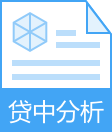
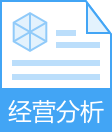
替换banner的图标,去掉navbar上的图标

Changed region(s): [[0.0536, 0.7576, 0.5089, 0.9394]]

diff --git a/src/components/companyHome/Banner/CompanyInfo/index.js b/src/components/companyHome/Banner/CompanyInfo/index.js
@@ -1,5 +1,5 @@
-import React, { PropTypes } from 'react';
-import { observer, inject } from 'mobx-react';
+import React, {PropTypes} from 'react';
+import {observer, inject} from 'mobx-react';
 import styles from './index.less';
 import HistoryName from './HistoryName';
 import RiskLabel from './RiskLabel';
@@ -7,13 +7,14 @@ import MultiPartyMonitoring from './MultiPartyMonitoring';
 import Industry from './Industry';
 import Contact from './Contact';
 import reportIcon from 'imgs/bannerInfo/report.png';
+import baseReportIcon from 'imgs/bannerInfo/baseReport.png';
 import loanIcon from 'imgs/bannerInfo/loan.png';
 import monitorIcon from 'imgs/bannerInfo/monitor.png';
 import nowRecordIcon from 'imgs/bannerInfo/nowRecord.png';
 
-function CompanyInfo({ bannerStore, routing}) {
+function CompanyInfo({bannerStore, routing, companyHomeStore}) {
   const bannerInfoData = bannerStore.bannerInfoData;
-  const createIcon = ()=> {
+  const createIcon = () => {
     const route = routing.location.pathname.split('/')[2];
     if (/comprehenEval|profitEval|operationEval|growthAbilityEval/.test(route)) {
       return loanIcon;
@@ -21,6 +22,8 @@ function CompanyInfo({ bannerStore, routing}) {
       return monitorIcon;
     } else if (route === 'nowRecord') {
       return nowRecordIcon;
+    } else if (companyHomeStore.reportInfo.basicReportId && !companyHomeStore.reportInfo.reportId) {
+      return baseReportIcon;
     }
     return reportIcon;
   };
@@ -32,11 +35,11 @@ function CompanyInfo({ bannerStore, routing}) {
       <div className={styles.baseInfoBox}>
         <div className="clearfix">
           <p className={styles.companyName}>{bannerInfoData.name}</p>
-           <RiskLabel riskInfo={bannerInfoData.bannerInfo.bannerInfo.riskInfo} />
-           <MultiPartyMonitoring monitorInfo={bannerInfoData.variousMonitored} />
+          <RiskLabel riskInfo={bannerInfoData.bannerInfo.bannerInfo.riskInfo}/>
+          <MultiPartyMonitoring monitorInfo={bannerInfoData.variousMonitored}/>
         </div>
         <div className={`clearfix ${styles.baseInfo}`}>
-          <Industry industryNames={industryType} />
+          <Industry industryNames={industryType}/>
           <Contact {...bannerStore} />
           <HistoryName {...bannerStore} />
         </div>
@@ -48,4 +51,4 @@ function CompanyInfo({ bannerStore, routing}) {
 CompanyInfo.propTypes = {
   bannerStore: PropTypes.object,
 };
-export default inject('bannerStore', 'routing')(observer(CompanyInfo));
+export default inject('bannerStore', 'routing', 'companyHomeStore')(observer(CompanyInfo));

diff --git a/src/components/NavBar/Menu/index.js b/src/components/NavBar/Menu/index.js
@@ -3,10 +3,6 @@ import {observer} from 'mobx-react';
 import {browserHistory} from 'react-router';
 import styles from './index.less';
 
-import imgLoanBefore from 'imgs/navbar/loanBefore.png';
-import imgLoaning from 'imgs/navbar/loaning.png';
-import imgLoanAfter from 'imgs/navbar/loanAfter.png';
-
 function Menu({routing, clientStore}) {
   const config = [
     {parent: {module: '首页', route: 'accountProfile'}},
@@ -31,14 +27,14 @@ function Menu({routing, clientStore}) {
     // },
     // { parent: { module: '头条', route: 'riskHeadlines' } },
     {
-      parent: {module: '报告', tagImg: imgLoanBefore},
+      parent: {module: '报告'},
       children: [
         {module: '基础报告', route: 'reportList?activeKey=basic'},
         {module: '高级报告', route: 'reportList?activeKey=advanced'},
       ]
     },
     {
-      parent: {module: '分析', tagImg: imgLoaning},
+      parent: {module: '分析'},
       children: [
         {module: '多维综合评价', route: 'analysisList?activeKey=multi'},
         {module: '盈利能力分析', route: 'analysisList?activeKey=profit'},
@@ -51,7 +47,7 @@ function Menu({routing, clientStore}) {
       ]
     },
     {
-      parent: {module: '监控', tagImg: imgLoanAfter},
+      parent: {module: '监控'},
       children: [
         {module: '每日头条', route: 'riskHeadlines'},
         {module: '头条统计', route: 'monitorStatistics'},
@@ -182,7 +178,6 @@ function Menu({routing, clientStore}) {
             className={styles.navbarItem}
             onMouseOver={parentItemMouseOver.bind(this, pIdx)}
             onMouseOut={parentItemMouseOut.bind(this, pIdx)}>
-            {parent.tagImg ? <img src={parent.tagImg} className={styles.navbarItemTag}/> : null}
             {parentItemDOM}
             {childrenOutput}
           </div>
@@ -190,7 +185,6 @@ function Menu({routing, clientStore}) {
       } else {
         output.push(
           <div key={`parent${pIdx}`} className={styles.navbarItem}>
-            {parent.tagImg ? <img src={parent.tagImg} className={styles.navbarItemTag}/> : null}
             {parentItemDOM}
           </div>
         );

diff --git a/src/components/analysisList/Title/index.js b/src/components/analysisList/Title/index.js
@@ -4,7 +4,7 @@ import styles from './index.less';
 function Title() {
   return (
     <div className={styles.titleCss}>
-      分析
+      分析列表
     </div>
   );
 }

diff --git a/src/components/reportList/Title/index.js b/src/components/reportList/Title/index.js
@@ -4,7 +4,7 @@ import styles from './index.less';
 function Title() {
   return (
     <div className={styles.titleCss}>
-      报告
+      报告列表
     </div>
   );
 }
